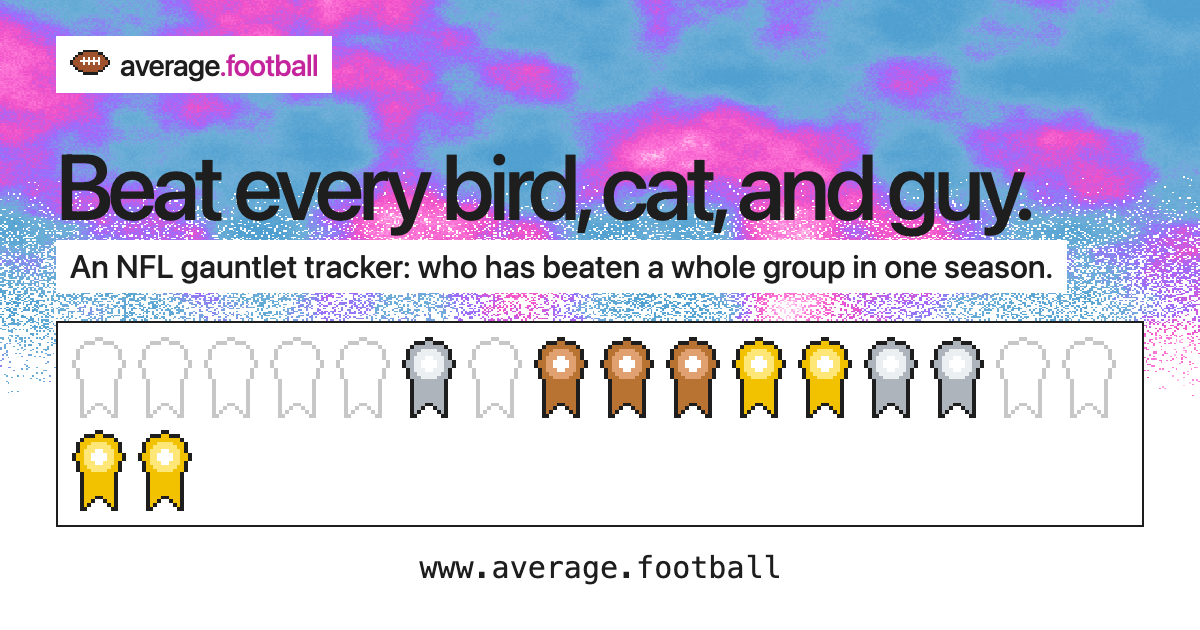
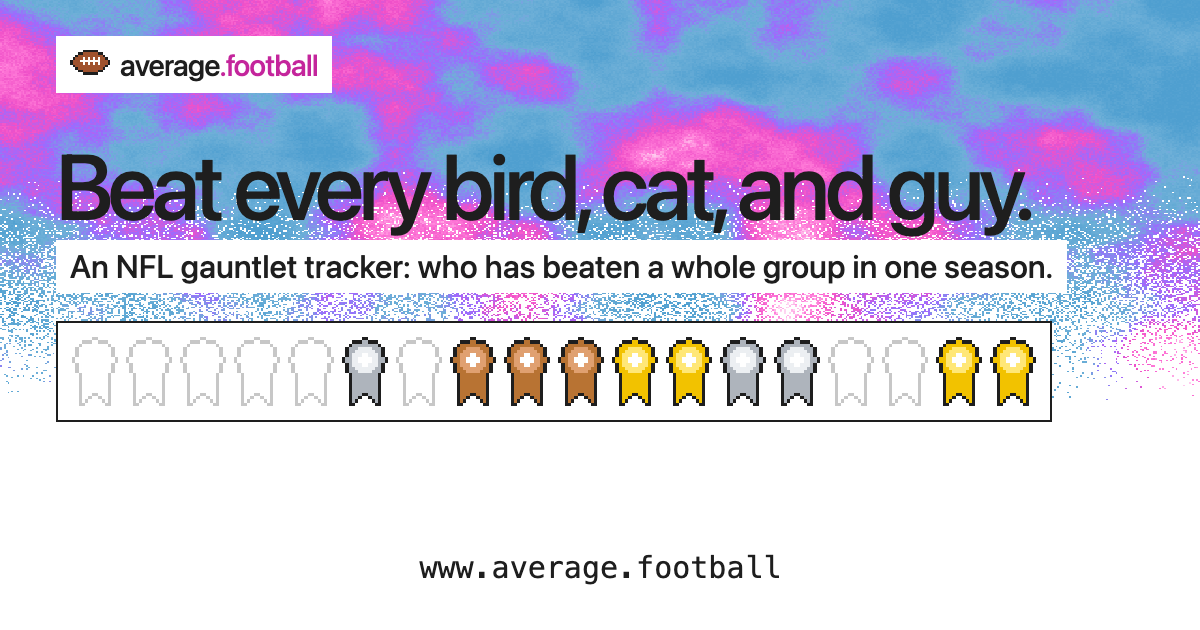
fix: fit 18 ribbons on one row in og.png

Changed region(s): [[0.0617, 0.4825, 0.9558, 0.8444]]

diff --git a/src/CardView.vue b/src/CardView.vue
@@ -73,7 +73,7 @@ const pager = computed(() => (slide.value ? `${Number(parts.value.base.slice(1))
     <template v-if="parts.base === 'og'">
       <h1 class="og-title">Beat every bird, cat, and guy.</h1>
       <p class="sub">An NFL gauntlet tracker: who has beaten a whole group in one season.</p>
-      <div class="og-rib"><RibbonBadge v-for="x in gauntlets" :key="x.id" :tier="tierOf(rarity[x.id])" :size="54" /></div>
+      <div class="og-rib"><RibbonBadge v-for="x in gauntlets" :key="x.id" :tier="tierOf(rarity[x.id])" :size="46" /></div>
     </template>
 
     <!-- watch summary -->
@@ -160,7 +160,7 @@ const pager = computed(() => (slide.value ? `${Number(parts.value.base.slice(1))
 .stage.square { height:1080px; padding:36px 56px; background-size:100% 520px }
 .stage.og { width:1200px; height:630px; padding:36px 56px; background-size:100% 420px }
 .og-title { font-size:92px; margin:50px 0 12px } .og .sub { font-size:32px }
-.og-rib { display:flex; gap:12px; flex-wrap:wrap; background:#fff; padding:14px; border:2px solid var(--line); width:fit-content; max-width:100% }
+.og-rib { display:flex; gap:8px; flex-wrap:wrap; background:#fff; padding:14px; border:2px solid var(--line); width:fit-content; max-width:100% }
 .top { display:flex; justify-content:space-between; align-items:center }
 .story .top { position:absolute; top:200px; left:56px; right:56px }
 .story h1 { margin-top:150px }
